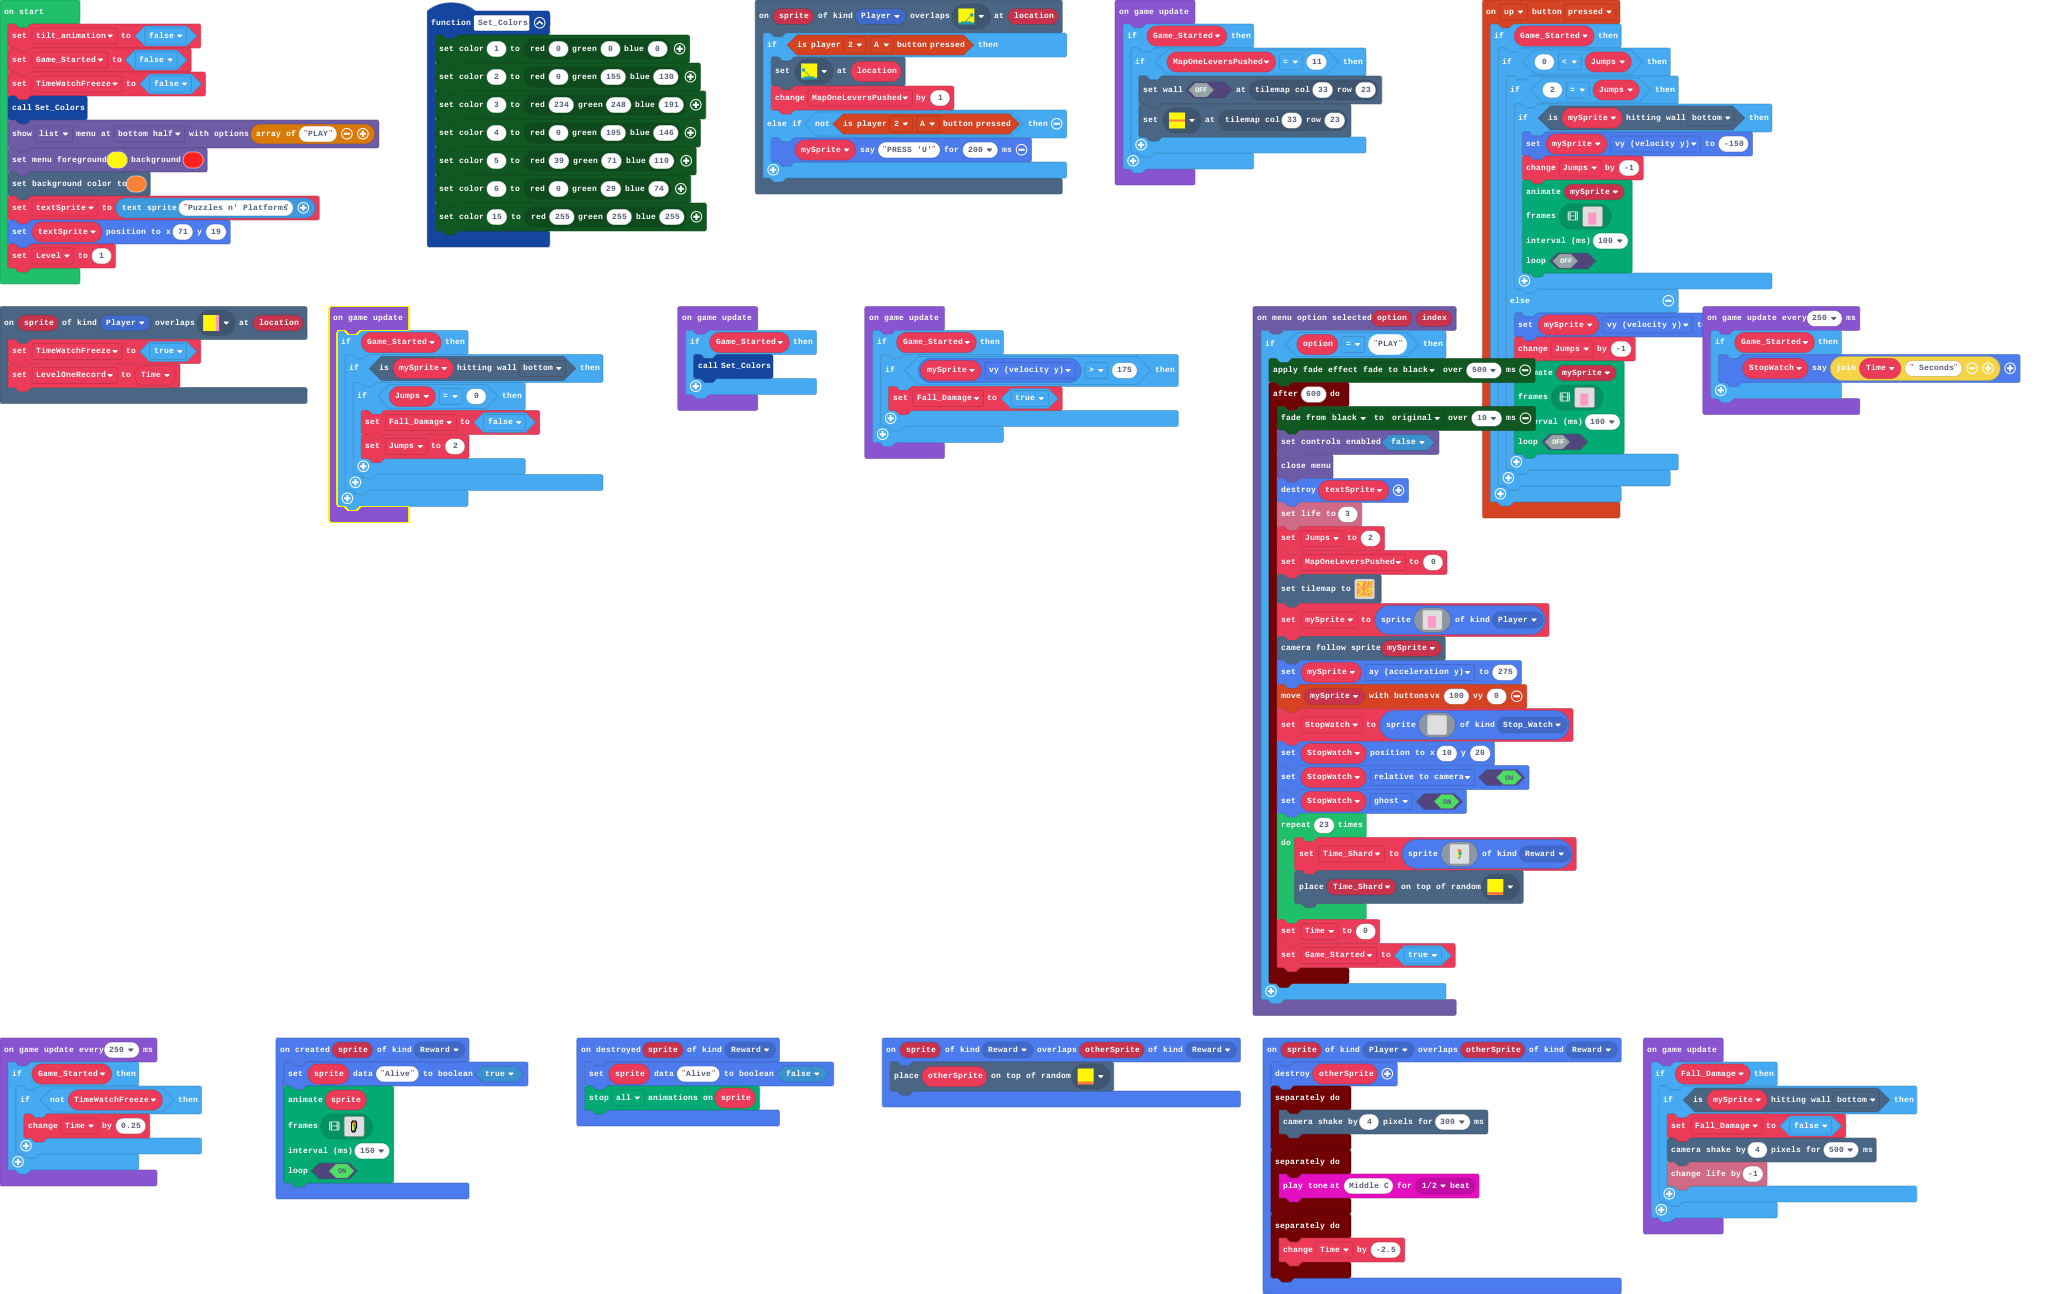
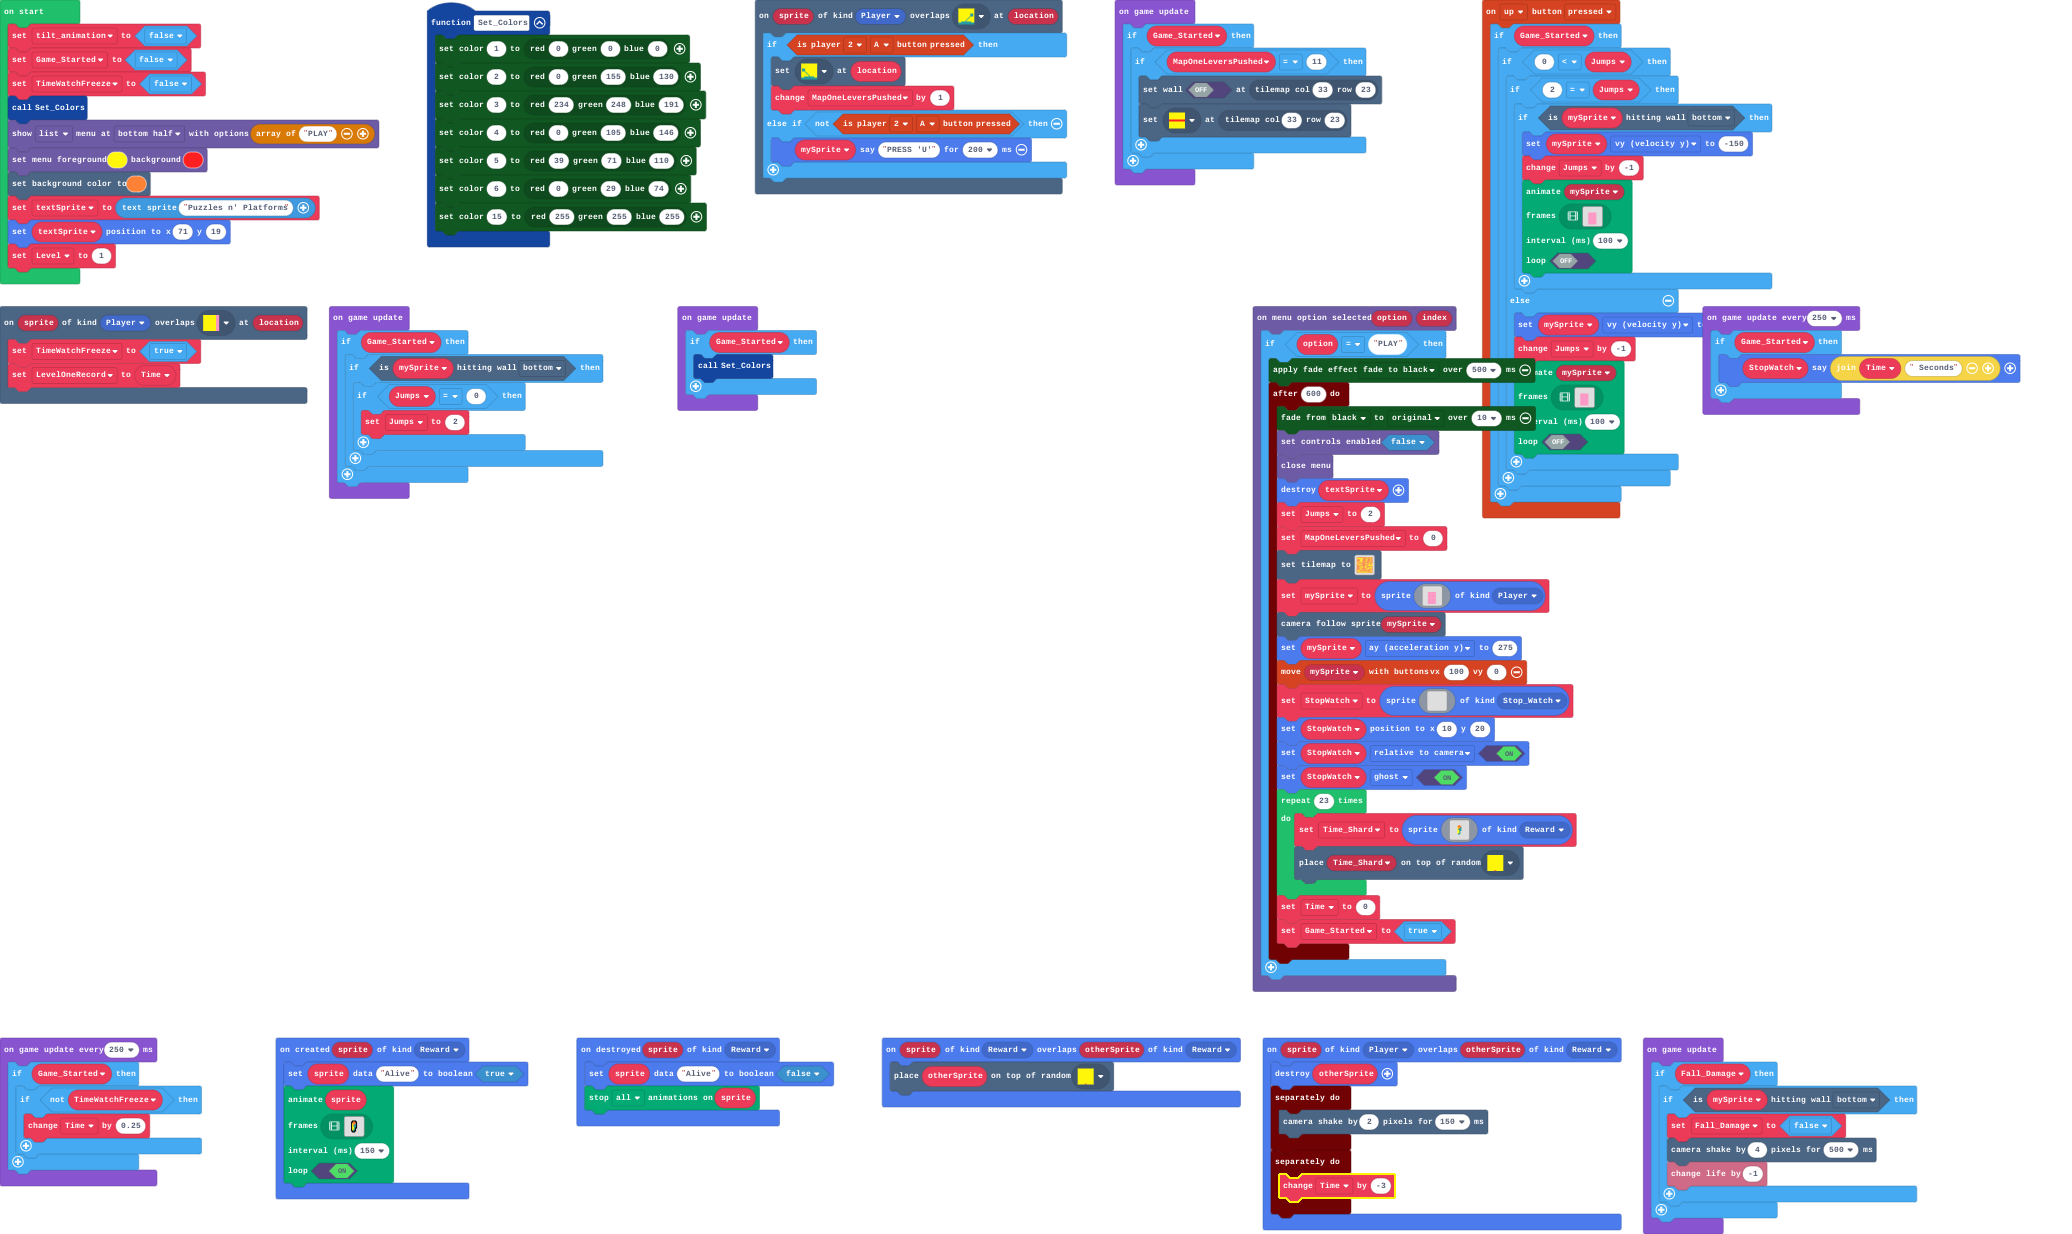
Update main.blocks, main.ts, images.g.jres, images.g.ts, tilemap.g.jres, tilemap.g.ts

Changed region(s): [[0.0, 0.0, 0.9884, 1.0], [0.3707, 0.0, 0.6795, 0.1848]]

diff --git a/tilemap.g.ts b/tilemap.g.ts
@@ -38,7 +38,7 @@ namespace myTiles {
     helpers._registerFactory("tilemap", function(name: string) {
         switch(helpers.stringTrim(name)) {
             case "Map1":
[2 lines of base64/hex data omitted]
 222222222222222222222...........222
 222222222222222222222.22222222..222
 2..............222222...222222..222
@@ -62,7 +62,7 @@ namespace myTiles {
 2222222.......2222...222222.2222222
 2222222222...22222....22222.2222222
 22222222222..222222...22222.2....22
-222222.......22222....22....2......
+222222.......22222....22....2....2.
 222222......222222222.22....2..2222
 22222222..22222222222.2.....2....22
 222222222.222222222...2.....222..22
@@ -72,9 +72,28 @@ namespace myTiles {
 222...22222222222222222.22........2
 222..2222222222222222...222222..222
 22..................2.222222222...2
-22..2...............2.22222222..2.2
+22..2.................22222222..2.2
 2222222222222222222............2222
 `, [myTiles.transparency16,myTiles.tile1,myTiles.tile2,myTiles.tile3,myTiles.tile4,myTiles.tile5,myTiles.tile7,myTiles.tile10,myTiles.tile11,myTiles.tile12,myTiles.tile14,myTiles.tile15,myTiles.tile17,myTiles.tile18], TileScale.Sixteen);
+            case "level2":
+            case "level2":return tiles.createTilemap(hex`1000100000000000000000000000000000000000000000000000000000000000000000000000000000000000000000000000000000000000000000000000000000000000000000000000000000000000000000000000000000000000000000000000000000000000000000000000000000000000000000000000000000000000000000000000000000000000000000000000000000000000000000000000000000000000000000000000000000000000000000000000000000000000000000000000000000000000000000000000000000000000000000000000000000000000000000000000000000000000000000000000000000000000000000000000000000000000`, img`
+. . . . . . . . . . . . . . . . 
+. . . . . . . . . . . . . . . . 
+. . . . . . . . . . . . . . . . 
+. . . . . . . . . . . . . . . . 
+. . . . . . . . . . . . . . . . 
+. . . . . . . . . . . . . . . . 
+. . . . . . . . . . . . . . . . 
+. . . . . . . . . . . . . . . . 
+. . . . . . . . . . . . . . . . 
+. . . . . . . . . . . . . . . . 
+. . . . . . . . . . . . . . . . 
+. . . . . . . . . . . . . . . . 
+. . . . . . . . . . . . . . . . 
+. . . . . . . . . . . . . . . . 
+. . . . . . . . . . . . . . . . 
+. . . . . . . . . . . . . . . . 
+`, [myTiles.transparency16], TileScale.Sixteen);
         }
         return null;
     })

diff --git a/images.g.ts b/images.g.ts
@@ -53,6 +53,56 @@ namespace myImages {
 . . . . . . . . . . . . . . . . 
 . . . . . . . . . . . . . . . . 
 `;
+            case "image1":return img`
+. . . . . . . . . . 
+. . . . . . . . . . 
+. . . . . . . . . . 
+. . 3 3 3 3 3 3 . . 
+. . 3 3 3 3 3 3 . . 
+. . 3 3 3 3 3 3 . . 
+. . 3 3 3 3 3 3 . . 
+. . 3 3 3 3 3 3 . . 
+. . 3 3 3 3 3 3 . . 
+. . 3 3 3 3 3 3 . . 
+. . 3 3 3 3 3 3 . . 
+. . 3 3 3 3 3 3 . . 
+`;
+            case "image2":return img`
+. . . . . . . . . . . . . . . . 
+. . . . . . . . . . . . . . . . 
+. . . . . . . . . . . . . . . . 
+. . . . . . . . . . . . . . . . 
+. . . . . . . . . . . . . . . . 
+. . . . . . . . . . . . . . . . 
+. . . . . . . . . . . . . . . . 
+. . . . . . . . . . . . . . . . 
+. . . . . . . . . . . . . . . . 
+. . . . . . . . . . . . . . . . 
+. . . . . . . . . . . . . . . . 
+. . . . . . . . . . . . . . . . 
+. . . . . . . . . . . . . . . . 
+. . . . . . . . . . . . . . . . 
+. . . . . . . . . . . . . . . . 
+. . . . . . . . . . . . . . . . 
+`;
+            case "image3":return img`
+. . . . . . . . . . . . . . . . 
+. . . . . . . . . . . . . . . . 
+. . . . . . . . . . . . . . . . 
+. . . . . . . 4 4 . . . . . . . 
+. . . . . . 4 4 4 4 . . . . . . 
+. . . . . . 5 4 4 6 . . . . . . 
+. . . . . . 5 4 6 6 . . . . . . 
+. . . . . . 5 6 6 6 . . . . . . 
+. . . . . . 5 5 6 6 . . . . . . 
+. . . . . . 5 5 6 . . . . . . . 
+. . . . . . 5 5 6 . . . . . . . 
+. . . . . . 5 6 6 . . . . . . . 
+. . . . . . . 6 . . . . . . . . 
+. . . . . . . . . . . . . . . . 
+. . . . . . . . . . . . . . . . 
+. . . . . . . . . . . . . . . . 
+`;
         }
         return null;
     })

diff --git a/main.ts b/main.ts
@@ -230,13 +230,10 @@ sprites.onOverlap(SpriteKind.Reward, SpriteKind.Reward, function (sprite, otherS
 sprites.onOverlap(SpriteKind.Player, SpriteKind.Reward, function (sprite, otherSprite) {
     otherSprite.destroy()
     timer.background(function () {
-        scene.cameraShake(4, 300)
+        scene.cameraShake(2, 150)
     })
     timer.background(function () {
-        music.playTone(262, music.beat(BeatFraction.Half))
-    })
-    timer.background(function () {
-        Time += -2.5
+        Time += -3
     })
 })
 sprites.onDestroyed(SpriteKind.Reward, function (sprite) {
@@ -400,7 +397,6 @@ blockMenu.onMenuOptionSelected(function (option, index) {
             blockMenu.setControlsEnabled(false)
             blockMenu.closeMenu()
             textSprite.destroy()
-            info.setLife(3)
             Jumps = 2
             MapOneLeversPushed = 0
             tiles.setTilemap(tilemap`Map1`)
@@ -501,7 +497,6 @@ game.onUpdate(function () {
     if (Game_Started) {
         if (mySprite.isHittingTile(CollisionDirection.Bottom)) {
             if (Jumps == 0) {
-                Fall_Damage = false
                 Jumps = 2
             }
         }
@@ -510,13 +505,6 @@ game.onUpdate(function () {
 game.onUpdate(function () {
     if (Game_Started) {
         Set_Colors()
-    }
-})
-game.onUpdate(function () {
-    if (Game_Started) {
-        if (mySprite.vy > 175) {
-            Fall_Damage = true
-        }
     }
 })
 game.onUpdate(function () {
